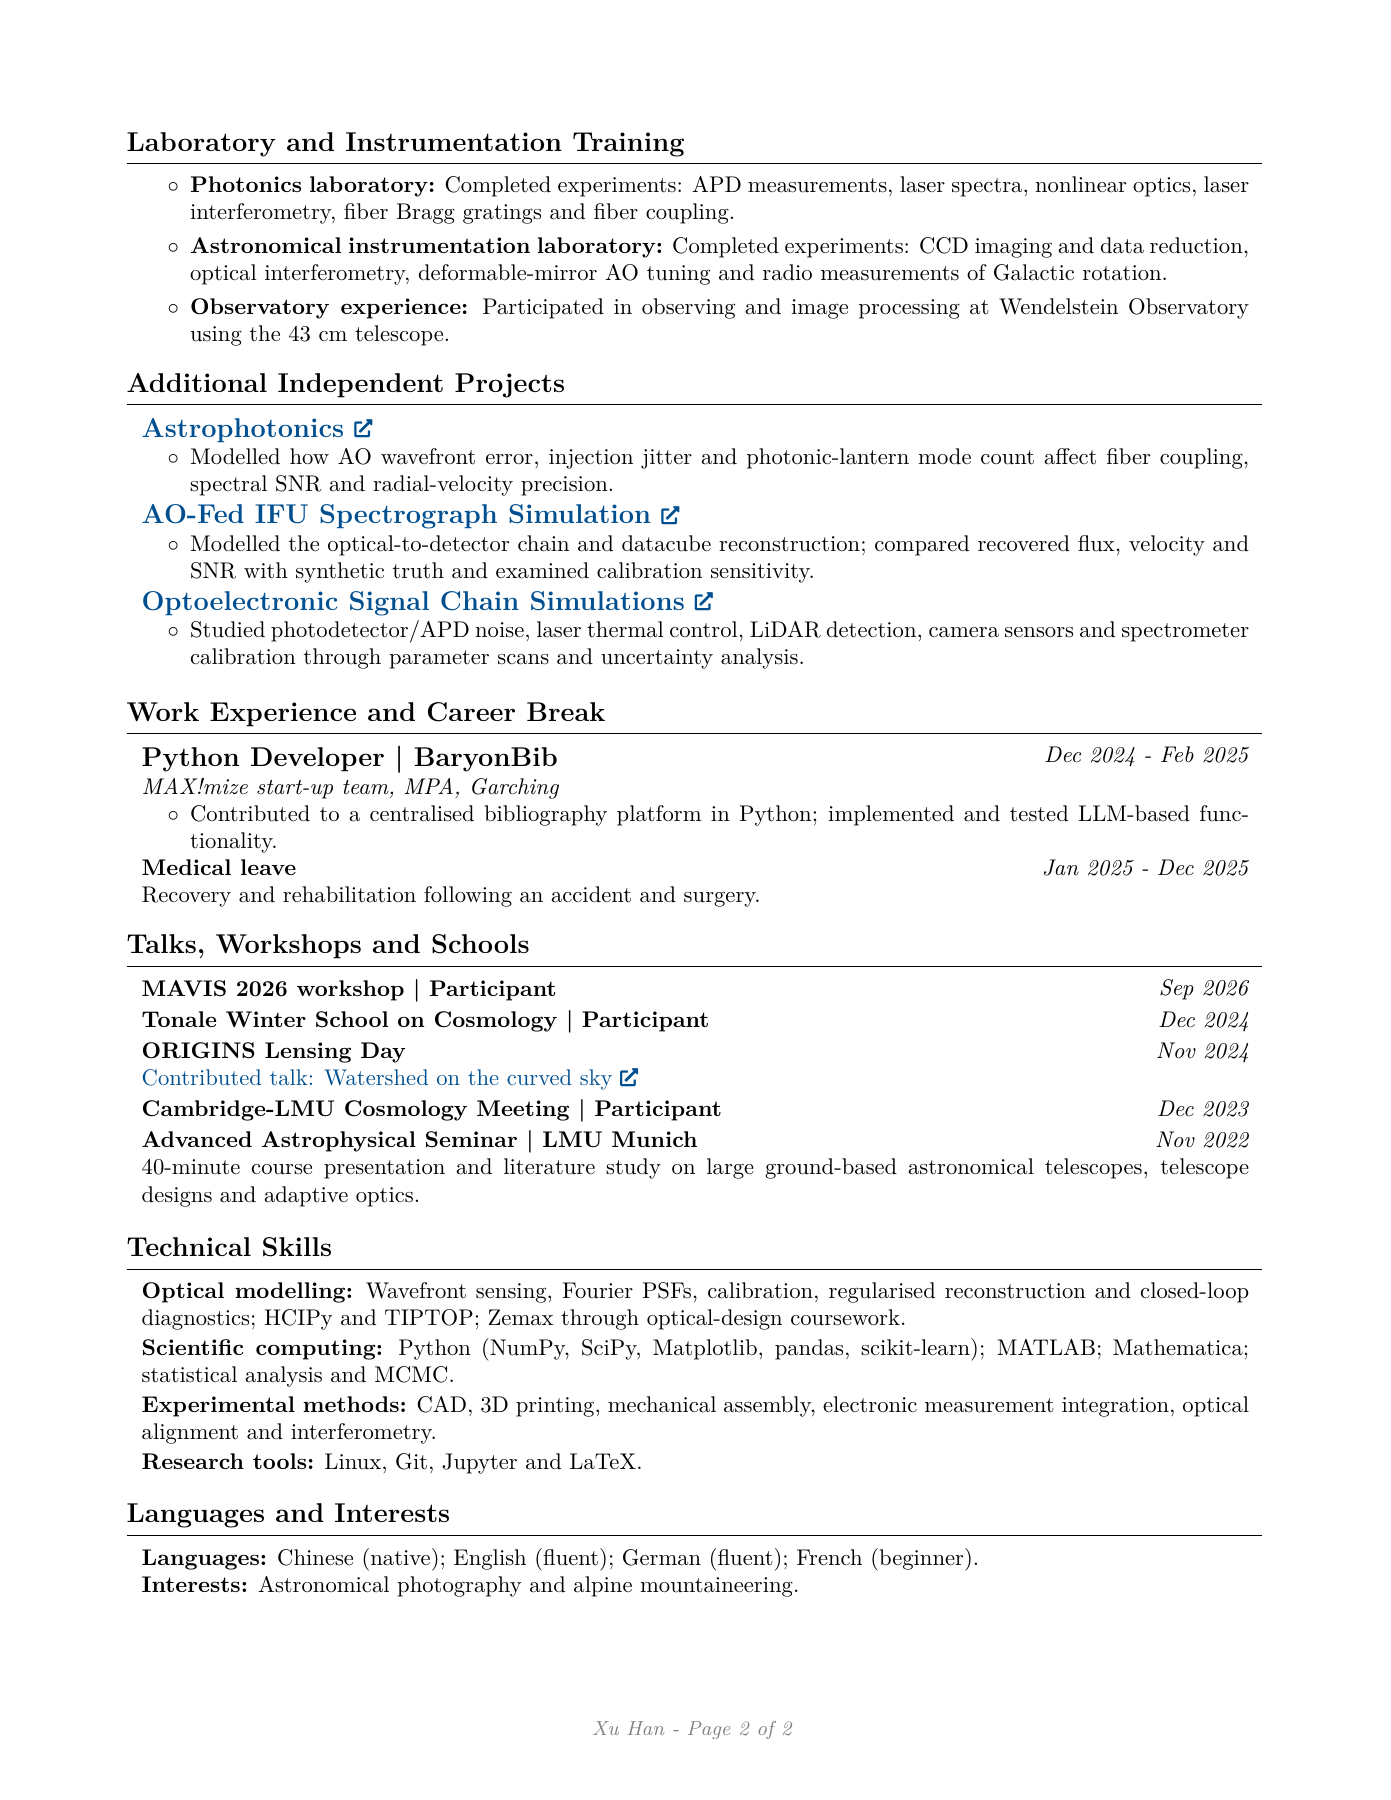
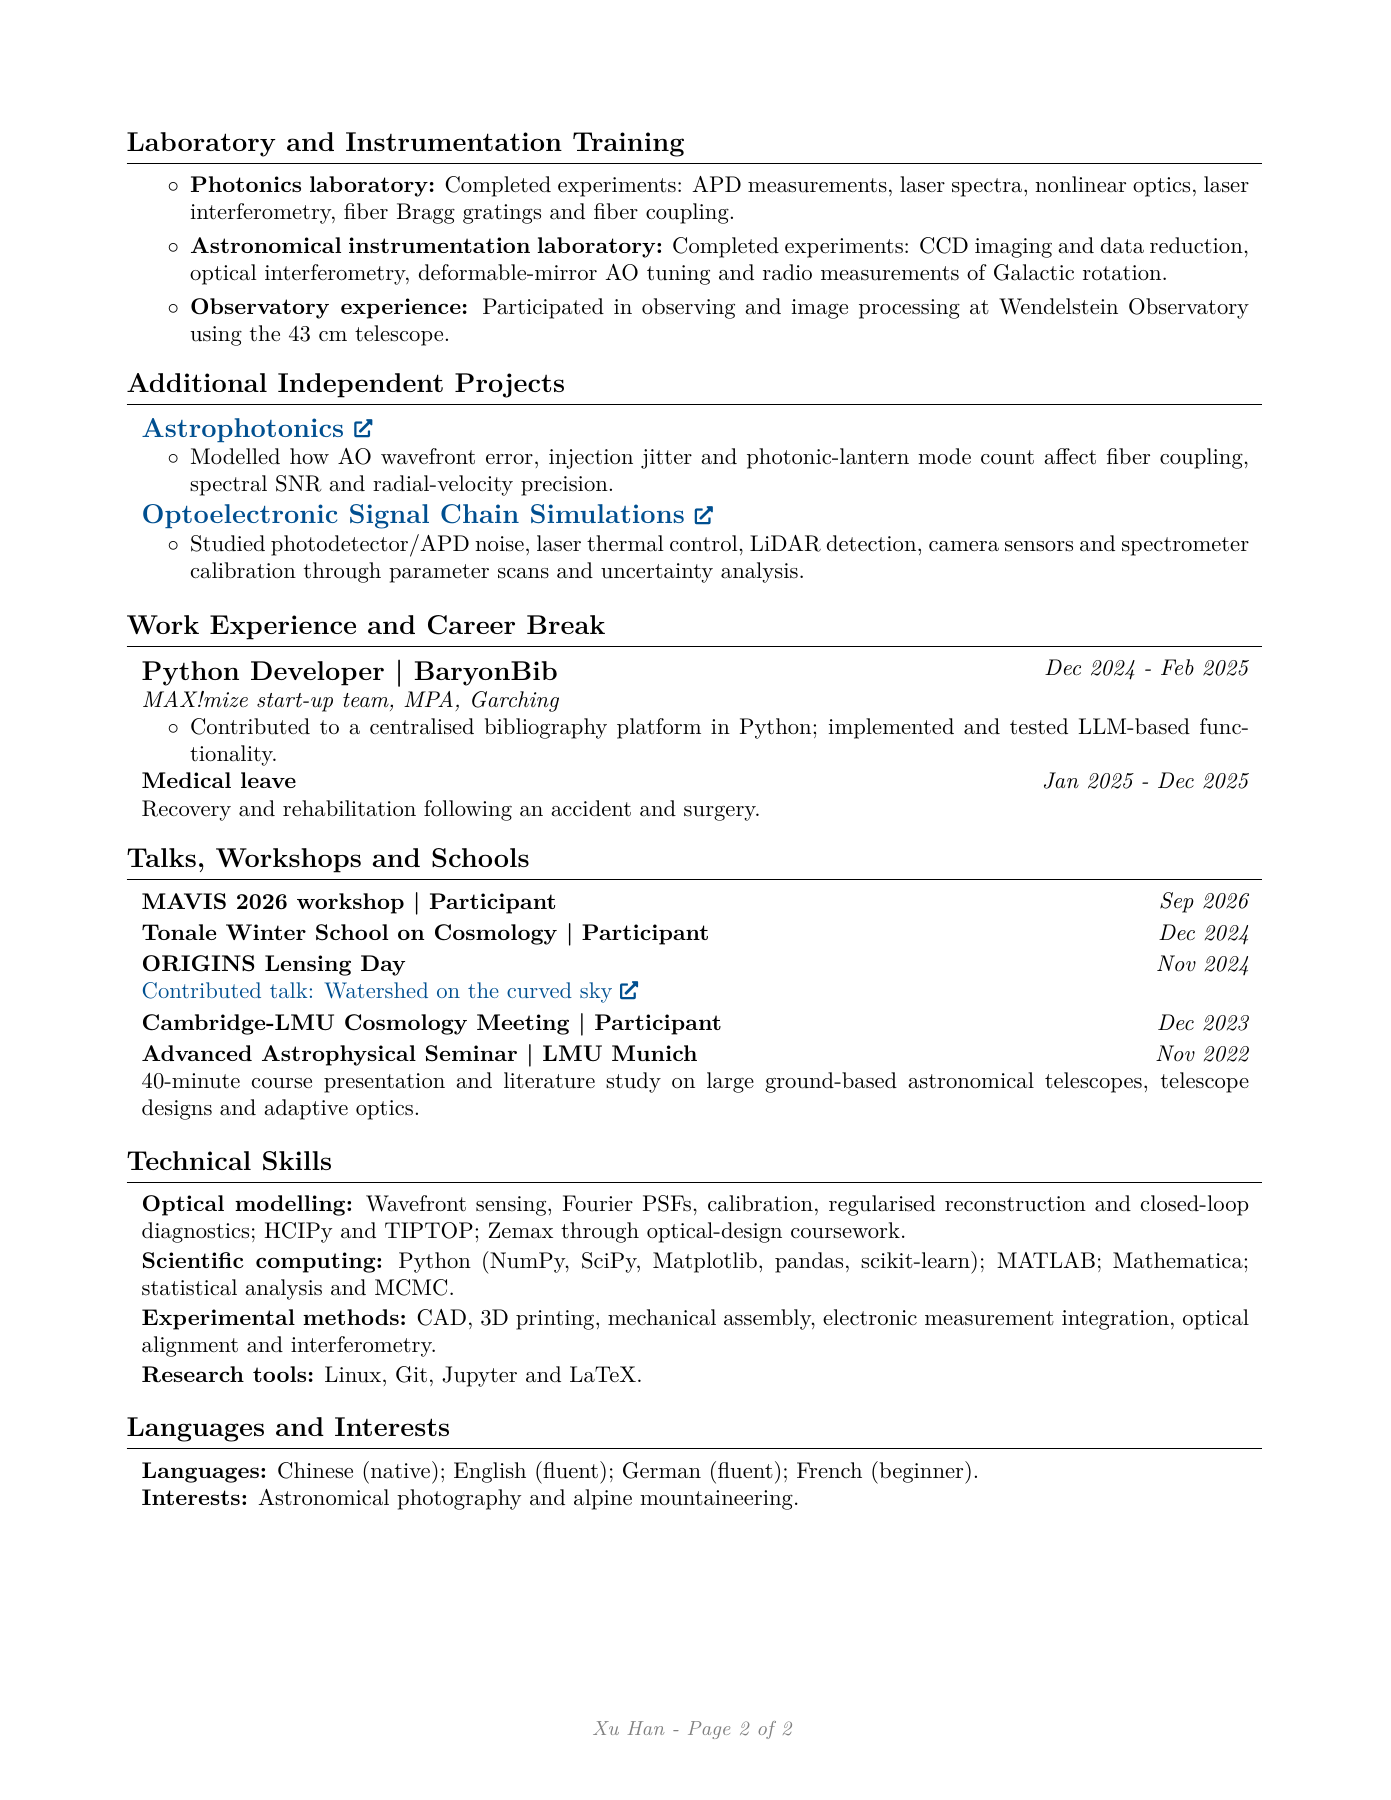
Remove AO-fed IFU project from portfolio and CV
Retain Astrophotonics and Optoelectronic Signal Chain projects. Remove the
homepage IFU entry and regenerate the two-page CV and matching previews.

diff --git a/cv/Xu_Han_CV.tex b/cv/Xu_Han_CV.tex
@@ -134,7 +134,7 @@
         \LenToUnit{\paperwidth-2 cm-0.2 cm+0.05cm},
         \LenToUnit{\paperheight-1.0 cm}
     ){\vtop{{\null}\makebox[0pt][c]{
-        \small\color{gray}\textit{Updated 27 Oct 2026}\hspace{\widthof{Updated 27 Oct 2026}}
+        \small\color{gray}\textit{Updated 30 Oct 2026}\hspace{\widthof{Updated 30 Oct 2026}}
     }}}%
   }%
 }%
@@ -263,15 +263,6 @@ Supervisors: Prof. Joseph Mohr and Dr. Chris Davies.
 \begin{onecolentry}
 \begin{highlights}
 \item Modelled how AO wavefront error, injection jitter and photonic-lantern mode count affect fiber coupling, spectral SNR and radial-velocity precision.
-\end{highlights}
-\end{onecolentry}
-\vspace{0.08 cm}
-\begin{onecolentry}
-{\large\textbf{\href{https://github.com/xhvoid/AO-Fed-IFU-Spectrograph-Simulation}{AO-Fed IFU Spectrograph Simulation}}}
-\end{onecolentry}
-\begin{onecolentry}
-\begin{highlights}
-\item Modelled the optical-to-detector chain and datacube reconstruction; compared recovered flux, velocity and SNR with synthetic truth and examined calibration sensitivity.
 \end{highlights}
 \end{onecolentry}
 \vspace{0.08 cm}

diff --git a/cv/template.tex b/cv/template.tex
@@ -134,7 +134,7 @@
         \LenToUnit{\paperwidth-2 cm-0.2 cm+0.05cm},
         \LenToUnit{\paperheight-1.0 cm}
     ){\vtop{{\null}\makebox[0pt][c]{
-        \small\color{gray}\textit{Updated 27 Oct 2026}\hspace{\widthof{Updated 27 Oct 2026}}
+        \small\color{gray}\textit{Updated 30 Oct 2026}\hspace{\widthof{Updated 30 Oct 2026}}
     }}}%
   }%
 }%

diff --git a/_pages/cv.md b/_pages/cv.md
@@ -7,14 +7,14 @@ author_profile: true
 
 My CV brings together **adaptive optics, experimental apparatus development and weak-lensing research**, supported by photonics studies, laboratory training and further optical simulation projects.
 
-<a class="btn btn--primary" href="{{ '/files/Xu_Han_CV.pdf?v=6203d4c29c5c' | relative_url }}" target="_blank" rel="noopener">View CV (PDF)</a>
-<a class="btn" href="{{ '/files/Xu_Han_CV.pdf?v=6203d4c29c5c' | relative_url }}" download="Xu_Han_CV.pdf">Download CV</a>
+<a class="btn btn--primary" href="{{ '/files/Xu_Han_CV.pdf?v=7a7acce9f40c' | relative_url }}" target="_blank" rel="noopener">View CV (PDF)</a>
+<a class="btn" href="{{ '/files/Xu_Han_CV.pdf?v=7a7acce9f40c' | relative_url }}" download="Xu_Han_CV.pdf">Download CV</a>
 
-*Updated 27 October 2026.*
+*Updated 30 October 2026.*
 
 <div class="cv-preview" aria-label="Two-page CV preview">
-  <a href="{{ '/files/Xu_Han_CV.pdf?v=6203d4c29c5c' | relative_url }}" target="_blank" rel="noopener" aria-label="Open the complete CV as a PDF">
-    <img src="{{ '/images/cv/xu-han-cv-page-1.png?v=a6693a147155' | relative_url }}" alt="Xu Han's CV, page 1: education and the three core research and engineering projects" width="1391" height="1800" decoding="async" style="width:100%;height:auto;border:1px solid #dde2e8;margin:0 0 1.5rem;">
-    <img src="{{ '/images/cv/xu-han-cv-page-2.png?v=3b5e261160e2' | relative_url }}" alt="Xu Han's CV, page 2: laboratory training, additional projects, work, talks and technical skills" width="1391" height="1800" loading="lazy" decoding="async" style="width:100%;height:auto;border:1px solid #dde2e8;margin:0 0 1.5rem;">
+  <a href="{{ '/files/Xu_Han_CV.pdf?v=7a7acce9f40c' | relative_url }}" target="_blank" rel="noopener" aria-label="Open the complete CV as a PDF">
+    <img src="{{ '/images/cv/xu-han-cv-page-1.png?v=f66ec412a5a7' | relative_url }}" alt="Xu Han's CV, page 1: education and the three core research and engineering projects" width="1391" height="1800" decoding="async" style="width:100%;height:auto;border:1px solid #dde2e8;margin:0 0 1.5rem;">
+    <img src="{{ '/images/cv/xu-han-cv-page-2.png?v=662f20c65625' | relative_url }}" alt="Xu Han's CV, page 2: laboratory training, additional projects, work, talks and technical skills" width="1391" height="1800" loading="lazy" decoding="async" style="width:100%;height:auto;border:1px solid #dde2e8;margin:0 0 1.5rem;">
   </a>
 </div>

diff --git a/_pages/projects.md b/_pages/projects.md
@@ -119,7 +119,7 @@ This research developed my experience with scientific computing, statistical rea
 
 ## Additional independent projects
 
-These studies extend my interests into fibre-fed spectroscopy, IFU measurements and optoelectronic signal chains.
+These studies extend my interests into fibre-fed spectroscopy and optoelectronic signal chains.
 
 <a id="astrophotonics"></a>
 
@@ -130,16 +130,6 @@ A conceptual Python study linking residual AO wavefront error, injection jitter 
 **Methods:** Wave optics, coherent modal coupling, noise budgets and parameter studies.
 
 [Repository](https://github.com/xhvoid/Astrophotonics) · [Executed notebook](https://github.com/xhvoid/Astrophotonics/blob/main/notebooks/eso_astrophotonics_showcase.ipynb)
-
-<a id="ifu-spectrograph"></a>
-
-### AO-Fed IFU Spectrograph Simulation
-
-An end-to-end numerical study carrying a synthetic datacube through AO PSF coupling, an image-slicer IFU, a spectrograph, detector response, calibration and cube reconstruction. Recovered flux, velocity and signal-to-noise are compared with the known input, making measurement biases and calibration sensitivity visible.
-
-**Methods:** Fourier PSFs, spatial and spectral sampling, detector noise, reconstruction and comparison with synthetic truth.
-
-[Repository](https://github.com/xhvoid/AO-Fed-IFU-Spectrograph-Simulation)
 
 <a id="optoelectronics"></a>
 

diff --git a/_pages/about.md b/_pages/about.md
@@ -49,7 +49,7 @@ My work combines Python-based optical modelling with experimental apparatus deve
 
 My physics thesis took a measurement from CAD and 3D-printed parts to an assembled apparatus, electronic readout and data analysis. My astrophysics thesis developed a cosmic-void finder for weak-lensing maps. I now study **optical design with Zemax** and model the wavefront-to-image chain in adaptive optics.
 
-Further independent projects explore [astrophotonic fibre coupling]({{ '/projects/#astrophotonics' | relative_url }}), [AO-fed IFU spectroscopy]({{ '/projects/#ifu-spectrograph' | relative_url }}) and [optoelectronic measurement chains]({{ '/projects/#optoelectronics' | relative_url }}).
+Further independent projects explore [astrophotonic fibre coupling]({{ '/projects/#astrophotonics' | relative_url }}) and [optoelectronic measurement chains]({{ '/projects/#optoelectronics' | relative_url }}).
 
 ## Hobbies
 

diff --git a/cv/Xu_Han_CV.md b/cv/Xu_Han_CV.md
@@ -71,10 +71,6 @@ Supervisors: Prof. Joseph Mohr and Dr. Chris Davies.
 
 - Modelled how AO wavefront error, injection jitter and photonic-lantern mode count affect fiber coupling, spectral SNR and radial-velocity precision.
 
-### [AO-Fed IFU Spectrograph Simulation](https://github.com/xhvoid/AO-Fed-IFU-Spectrograph-Simulation)
-
-- Modelled the optical-to-detector chain and datacube reconstruction; compared recovered flux, velocity and SNR with synthetic truth and examined calibration sensitivity.
-
 ### [Optoelectronic Signal Chain Simulations](https://github.com/xhvoid/Optoelectronic-Signal-Chain-Simulations)
 
 - Studied photodetector/APD noise, laser thermal control, LiDAR detection, camera sensors and spectrometer calibration through parameter scans and uncertainty analysis.
